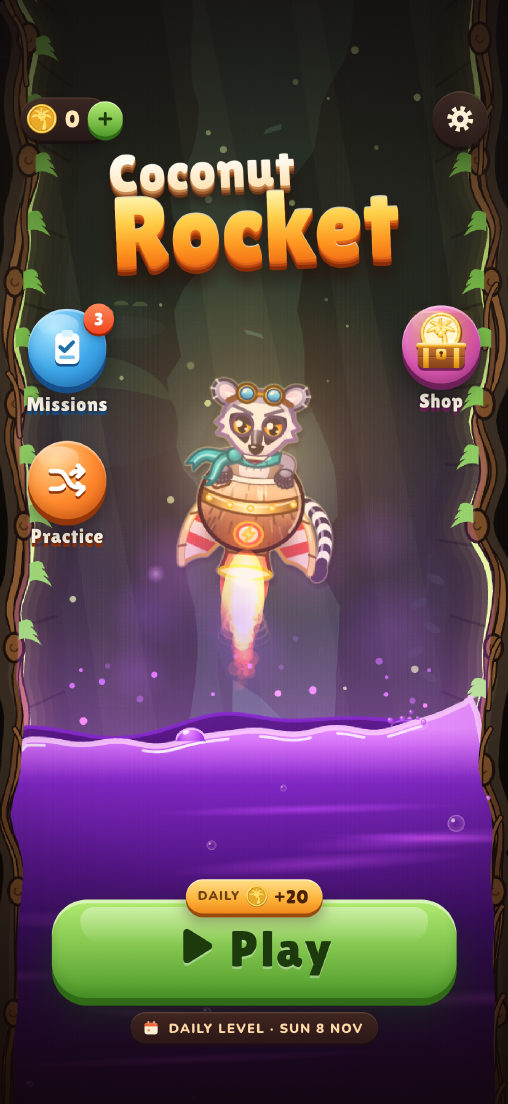
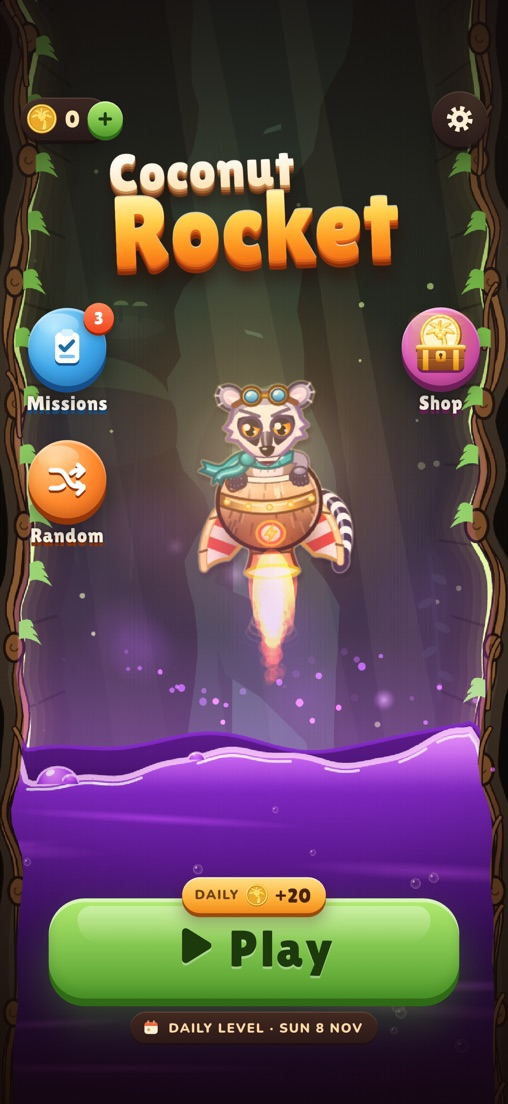
Coconut Rocket site: Practice is now Random

diff --git a/coconut-rocket/index.html b/coconut-rocket/index.html
@@ -121,7 +121,7 @@
           <p class="eyebrow">A new level every day</p>
           <h2 id="daily-title">Same Level. <em>Everyone.</em></h2>
           <p class="lede">Every day brings a fresh daily level, and it is the same one for every player. Chase your best score, and come back each day to keep your streak alive for bigger coin rewards.</p>
-          <p class="lede">Want to warm up first? <strong>Practice runs</strong> give you a random layout every time.</p>
+          <p class="lede">Want to warm up first? <strong>Random runs</strong> give you a fresh layout every time.</p>
         </div>
         <div class="card daily-card">
           <span class="chip label">Daily streak</span>
@@ -160,7 +160,7 @@
         <h2 id="ways-title">Made for <em>Quick Runs.</em></h2>
         <ul class="features">
           <li class="card"><span class="orb blue"><svg aria-hidden="true"><use href="#missions"/></svg></span><div><h3>Missions</h3><p>Three missions at a time, each one done in a single run, for extra coins.</p></div></li>
-          <li class="card"><span class="orb orange"><svg aria-hidden="true"><use href="#shuffle"/></svg></span><div><h3>Practice</h3><p>A random level every time, for when you just want one more go.</p></div></li>
+          <li class="card"><span class="orb orange"><svg aria-hidden="true"><use href="#shuffle"/></svg></span><div><h3>Random</h3><p>A fresh level every time, for when you just want one more go.</p></div></li>
           <li class="card"><span class="orb green"><svg aria-hidden="true"><use href="#thumb"/></svg></span><div><h3>Your Controls</h3><p>One thumb, two thumbs or tilt. Pick whatever feels best in Settings.</p></div></li>
         </ul>
       </div>

diff --git a/coconut-rocket/support/index.html b/coconut-rocket/support/index.html
@@ -62,7 +62,7 @@
           </ul>
 
           <h2>When does the daily level change?</h2>
-          <p>At midnight, your local time. Everyone plays the same level on the same date, so scores are easy to compare, and you can retry it as often as you like. Practice runs give you a random level instead, whenever you want one.</p>
+          <p>At midnight, your local time. Everyone plays the same level on the same date, so scores are easy to compare, and you can retry it as often as you like. Random runs give you a fresh level instead, whenever you want one.</p>
 
           <h2>How does the daily streak work?</h2>
           <p>Your first daily level run each day pays streak coins. Day one pays 20, and every day in a row pays 10 more, up to 100. Miss a day and the streak starts again from day one.</p>
